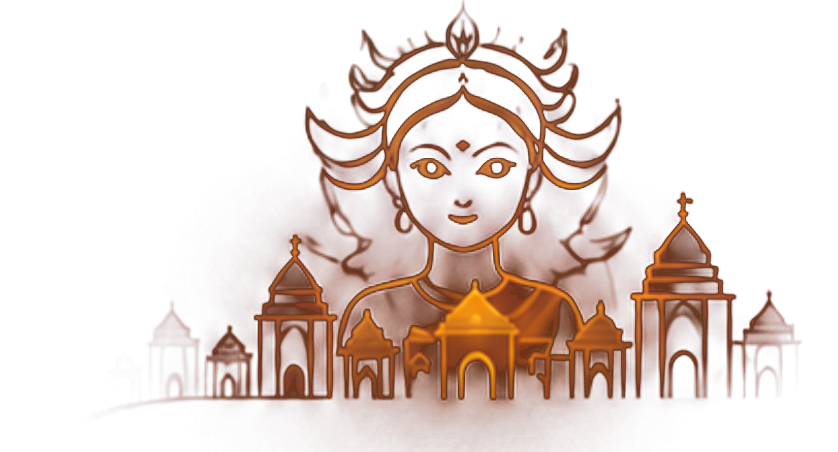
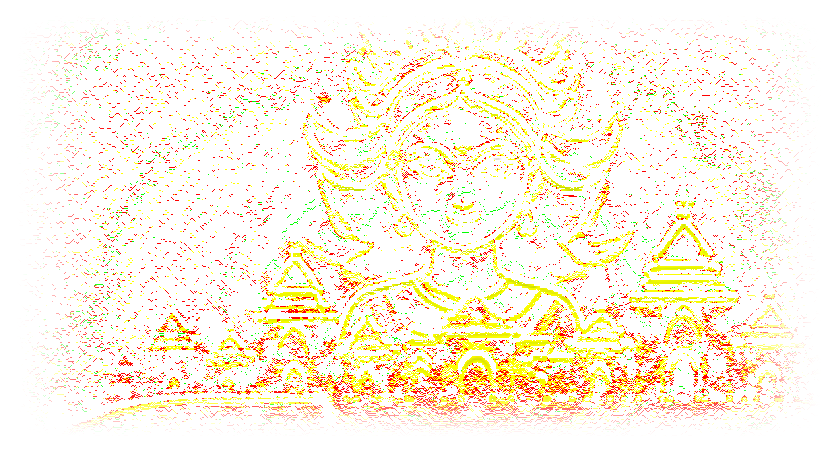
Seamlessly blend Durga artwork with deadzone edge fade and radial gradient mask

diff --git a/src/App.tsx b/src/App.tsx
@@ -3067,12 +3067,15 @@ export default function App() {
               </div>
 
               {/* Glowing Golden Maa Durga Artwork Image */}
-              <div className="absolute right-0 -top-2 -bottom-2 w-48 sm:w-56 flex items-center justify-end pointer-events-none select-none overflow-hidden">
+              <div className="absolute right-0 -top-2 -bottom-2 w-48 sm:w-56 flex items-center justify-end pointer-events-none select-none">
                 <img
-                  src="/profile-durga-bg.png?v=t1"
+                  src="/profile-durga-bg.png?v=t2"
                   alt="Maa Durga"
-                  className="h-full w-auto max-w-none object-contain object-right drop-shadow-[0_0_16px_rgba(233,184,62,0.4)] opacity-95 mix-blend-screen [mask-image:linear-gradient(to_left,black_80%,transparent)]"
-                  style={{ WebkitMaskImage: 'linear-gradient(to left, black 80%, transparent)' }}
+                  className="h-full w-auto max-w-none object-contain object-right drop-shadow-[0_0_16px_rgba(233,184,62,0.4)] opacity-95 mix-blend-screen"
+                  style={{
+                    maskImage: 'radial-gradient(ellipse at 60% 50%, black 40%, transparent 75%)',
+                    WebkitMaskImage: 'radial-gradient(ellipse at 60% 50%, black 40%, transparent 75%)',
+                  }}
                 />
               </div>
             </div>

diff --git a/index.html b/index.html
@@ -1140,12 +1140,12 @@
         </div>
 
         <!-- Glowing Golden Maa Durga Artwork Image -->
-        <div class="absolute right-0 -top-2 -bottom-2 w-48 sm:w-56 flex items-center justify-end pointer-events-none select-none overflow-hidden">
+        <div class="absolute right-0 -top-2 -bottom-2 w-48 sm:w-56 flex items-center justify-end pointer-events-none select-none">
           <img
-            src="profile-durga-bg.png?v=t1"
+            src="profile-durga-bg.png?v=t2"
             alt="Maa Durga"
             class="h-full w-auto max-w-none object-contain object-right drop-shadow-[0_0_16px_rgba(233,184,62,0.4)] opacity-95 mix-blend-screen"
-            style="-webkit-mask-image: linear-gradient(to left, black 80%, transparent); mask-image: linear-gradient(to left, black 80%, transparent);"
+            style="-webkit-mask-image: radial-gradient(ellipse at 60% 50%, black 40%, transparent 75%); mask-image: radial-gradient(ellipse at 60% 50%, black 40%, transparent 75%);"
           >
         </div>
       </div>
